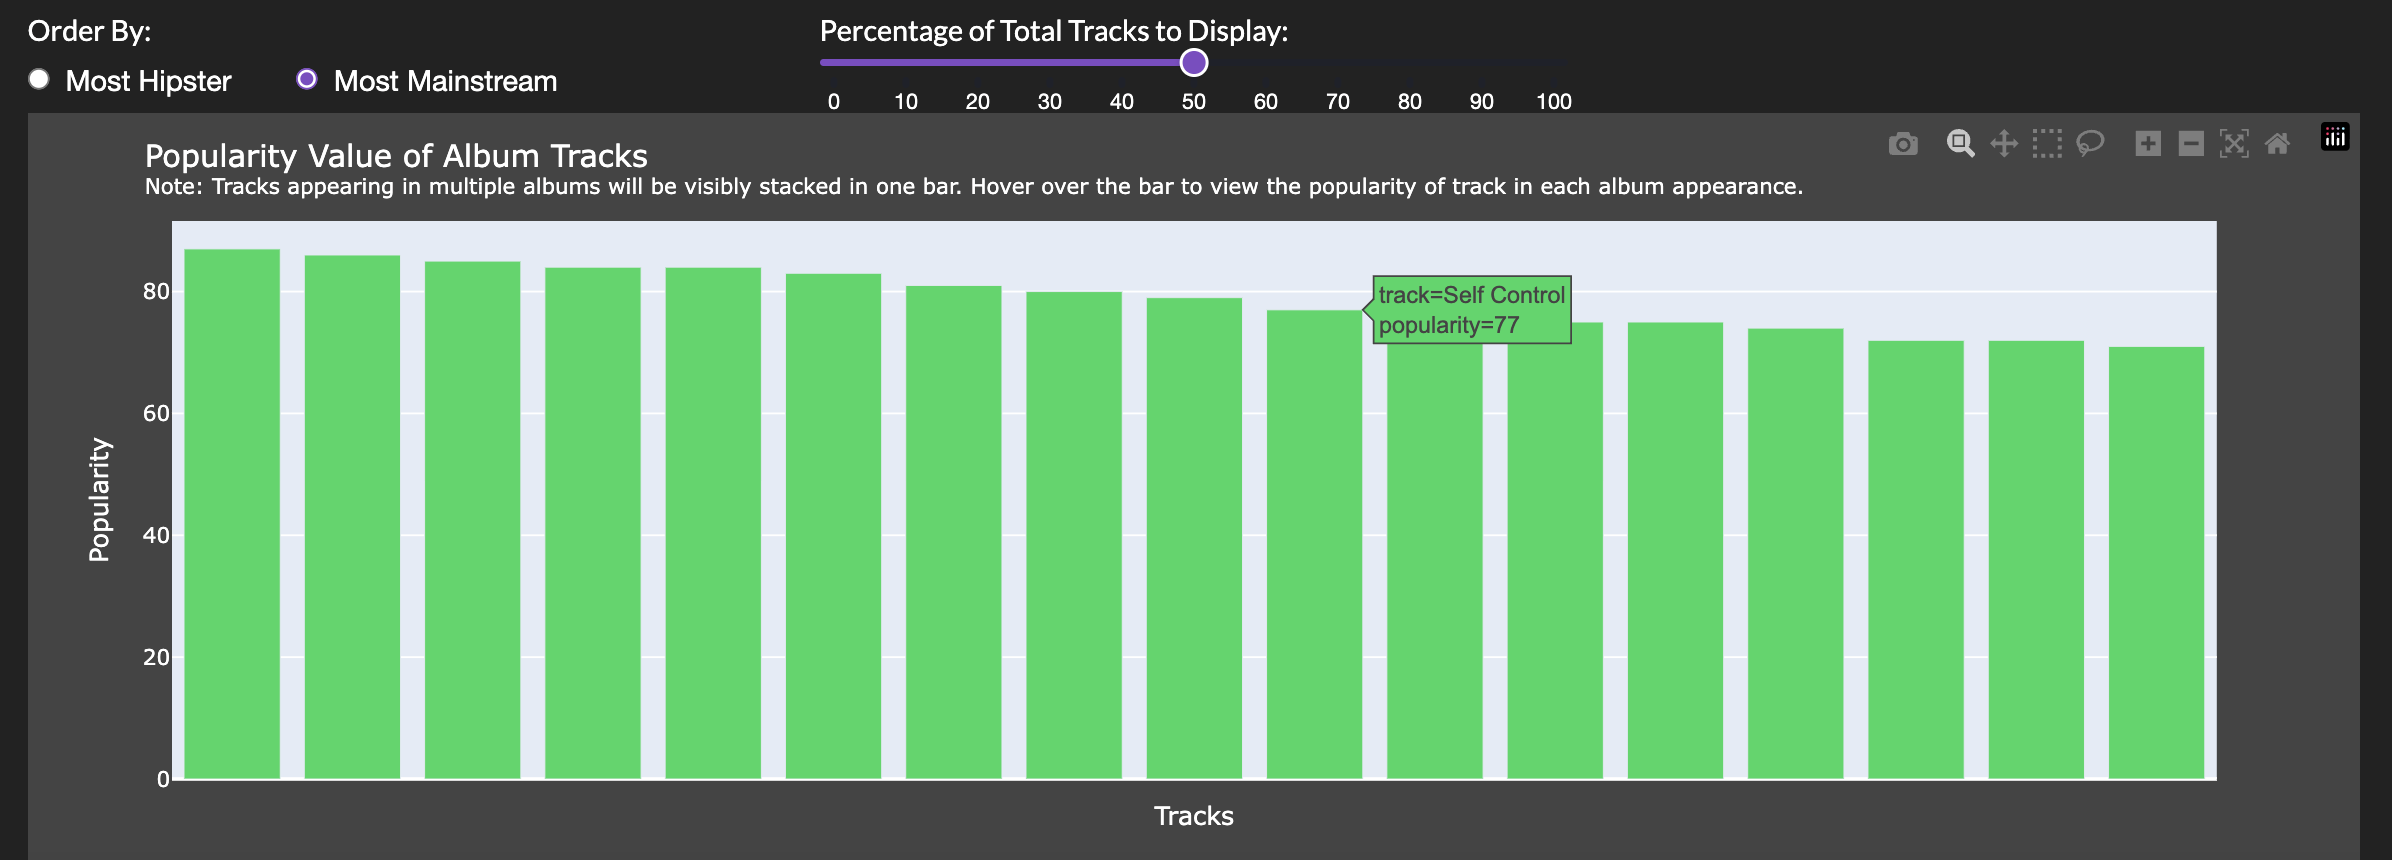
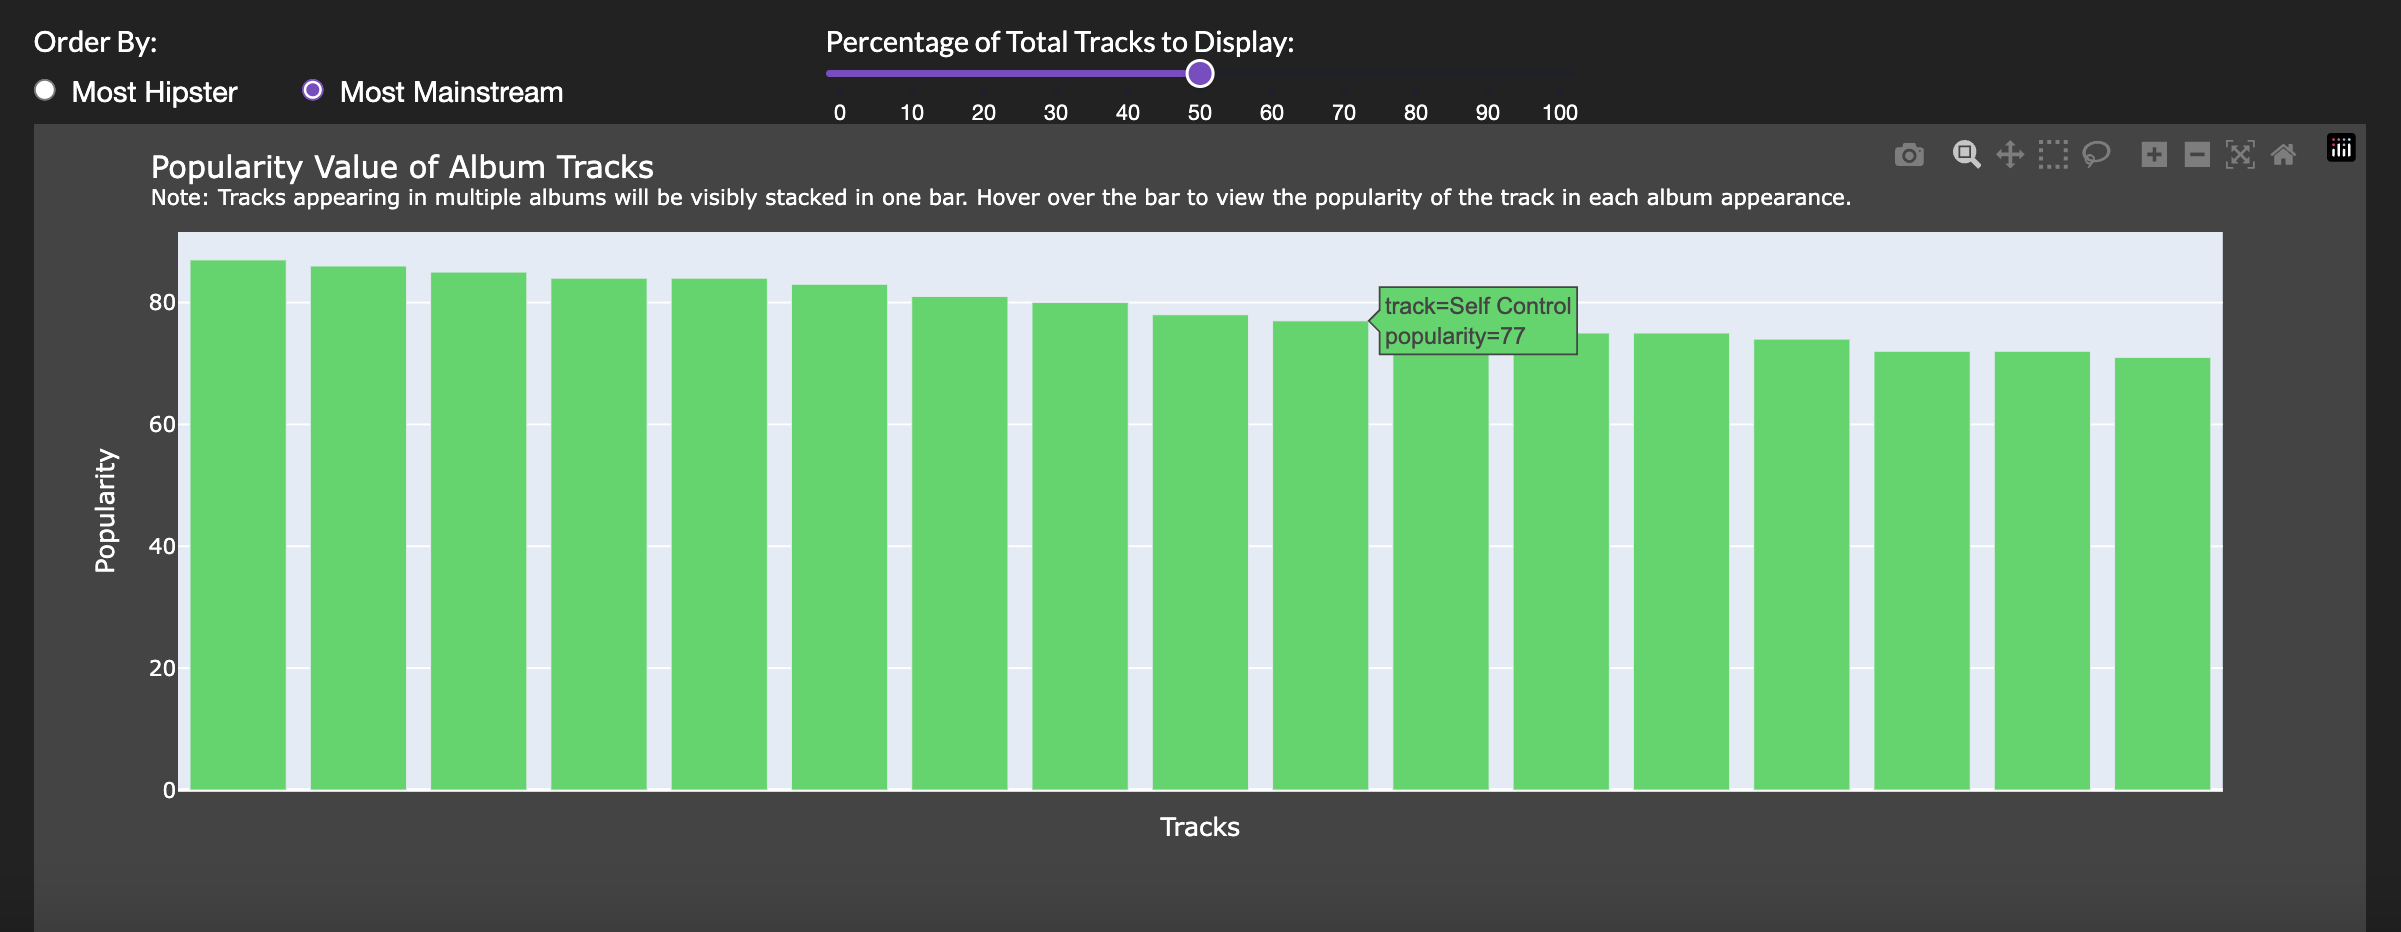
revised graph

diff --git a/app.py b/app.py
@@ -49,8 +49,8 @@ app.layout = dbc.Container([
                             }],
                         style_data_conditional=[{
                                 "if": {"state": "active"},
-                                "backgroundColor": "rgba(127, 75, 196, 0.6)",
-                                "border": "1px solid rgba(127, 75, 196, 1)"
+                                "backgroundColor": "rgba(30,215,96,0.8)",
+                                "border": "1px solid rgba(255, 255, 255, 1)"
                             }],
                         ),
                 ]),
@@ -350,9 +350,9 @@ def tracks_graph(data, order, percent_of_tracks):
     )
     fig.update_traces(marker_color="rgb(30,215,96)")
     fig.update_yaxes(title= "Popularity", title_font={"color": "rgb(255,255,255)"}, tickfont={"color": "rgb(255,255,255)"})
-    fig.update_xaxes(title= "Tracks", title_font={"color": "rgb(255,255,255)"}, showticklabels=False)
+    fig.update_xaxes(title= "Tracks", title_font={"color": "rgb(255,255,255)"}, showticklabels=False, )
     fig.update_layout(
-        title="Popularity Value of Album Tracks <br><sup>Note: Tracks appearing in multiple albums will be visibly stacked in one bar. Hover over the bar to view the popularity of track in each album appearance.</sup>",
+        title="Popularity Value of Album Tracks <br><sup>Note: Tracks appearing in multiple albums will be visibly stacked in one bar. Hover over the bar to view the popularity of the track in each album appearance.</sup>",
         font_color="rgb(255,255,255)",
         paper_bgcolor="rgb(68,68,68)"
     )
